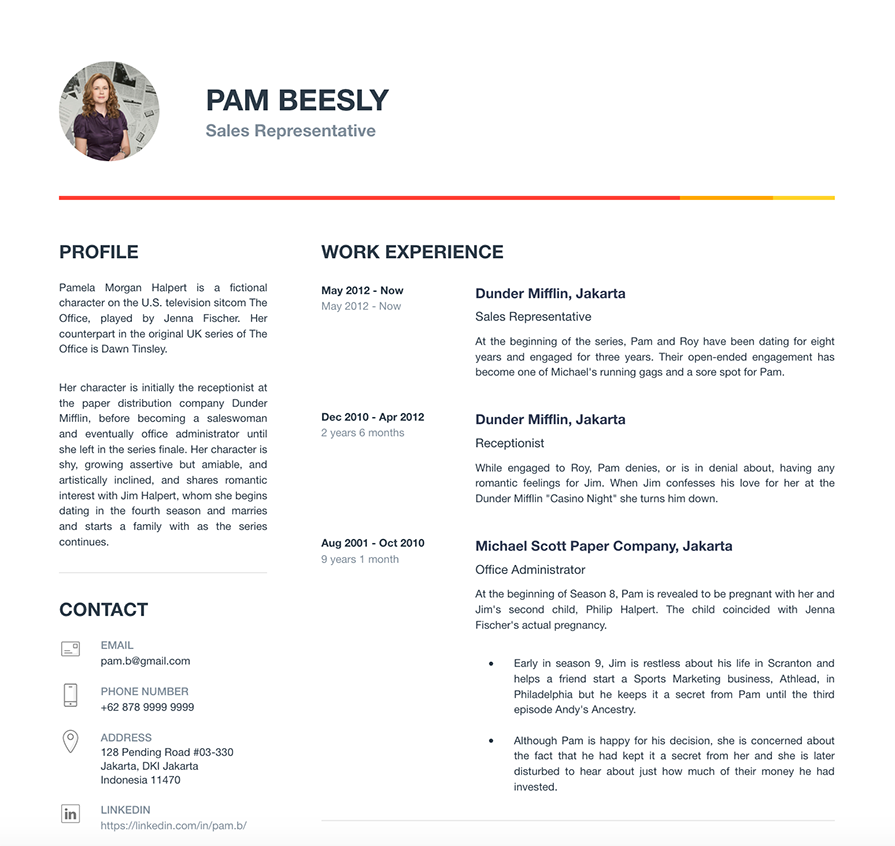
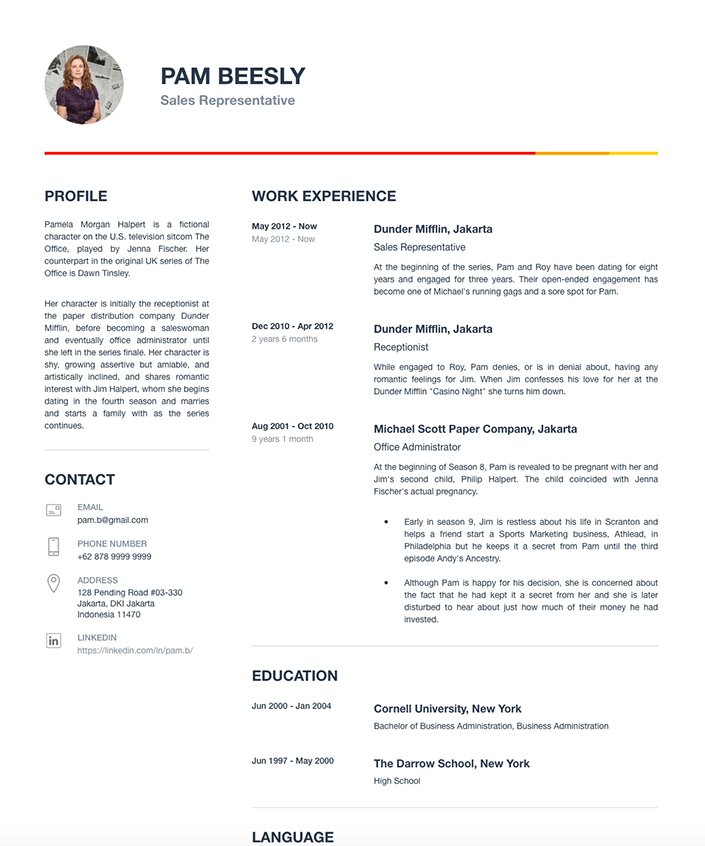
made more ordering changes

diff --git a/templates/home.html b/templates/home.html
@@ -107,11 +107,12 @@
                 </div>
 
                 <div class="home-image-right">
-                    <img src="{% static 'images/iphone-app-470.png' %}">
+                    <img src="{% static 'images/resume-846.png' %}">
                 </div>
             </div>
 
-        </div> <!-- end home-content -->
+        </div>
+       <!--
         <ul class="home-social-list">
             <li>
                 <a href="#"><i class="fa fa-facebook-square"></i></a>
@@ -120,7 +121,6 @@
                 <a href="#"><i class="fa fa-instagram"></i></a>
             </li>
         </ul>
-        <!-- end home-social-list -->
 
         <div class="home-scrolldown">
             <a href="#about" class="scroll-icon smoothscroll">
@@ -128,7 +128,8 @@
                 <i class="icon-arrow-right" aria-hidden="true"></i>
             </a>
         </div>
-    </section> <!-- end home -->
+       -->
+    </section>
 
 
     <!-- about
@@ -257,8 +258,9 @@
                 <p>We don't want your business for long. Choose a subscription plan that's right for you.
                 </p>
                 <p>&nbsp</p> <!-- Ugly, figure this out later -->
-                <p>We accept all major payment methods and process payments with MidTrans SSL Secure / 256-bit SSL secure checkout.
+                <p>We accept all major payment methods and process payments with Midtrans SSL Secure / 256-bit SSL secure checkout.
                 </p>
+                <p><img src="{% static 'images/go-pay-logo.png' %}" class="payment-logo"></p>
             </div>
 
             <div class="col-eight pricing-table">
@@ -283,7 +285,7 @@
                                     <li><span>One Time</span> Payment</li>
                                 </ul>
 
-                                <a class="button button-primary large" href="">Get Started</a>
+                                <a class="button button-primary large" href="{% url 'register' %}">Get Started</a>
                             </div>
 
                         </div>
@@ -308,7 +310,7 @@
                                     <li><span>One Time</span> Payment</li>
                                 </ul>
 
-                                <a class="button button-primary large" href="">Get Started</a>
+                                <a class="button button-primary large" href="{% url 'register' %}">Get Started</a>
                             </div>
 
                         </div>
@@ -338,9 +340,8 @@
                 <div class="slides owl-carousel">
                     <div>
                         <p>
-                        Your work is going to fill a large part of your life, and the only way to be truly satisfied is
-                        to do what you believe is great work. And the only way to do great work is to love what you do.
-                        If you haven't found it yet, keep looking. Don't settle. As with all matters of the heart, you'll know when you find it.
+                            Aim for the stars and sell yourself with facts and numbers.
+                            Be professional at all times. And most importantly, never be late for an appointment.
                         </p>
 
                         <div class="testimonial-author">

diff --git a/assets/css/main.css b/assets/css/main.css
@@ -1532,7 +1532,7 @@ h1.intro-header::before {
   display: block;
   position: absolute;
   right: 0px;
-  top: 50%;	margin: 0px;
+  top: 35%;	margin: 0px;
   -webkit-transform: translateY(-50%);
   -ms-transform: translateY(-50%);
   transform: translateY(-50%);
@@ -1544,9 +1544,6 @@ h1.intro-header::before {
 
 .home-image-right img {
   vertical-align: bottom;
-  width: 70%;
-  max-height: 846px;
-  max-width: 470px;
 }
 
 
@@ -1734,7 +1731,7 @@ html[data-useragent*='MSIE 10.0'] .home-scrolldown,
   }
   .home-image-right img {
 	vertical-align: top;
-	width: 70%;
+	width: 90%;
   }
 }
 
@@ -1792,7 +1789,7 @@ html[data-useragent*='MSIE 10.0'] .home-scrolldown,
 	right: auto;
 	top: auto;
 	left: 50%;
-	bottom: 0;
+	bottom: 175px;
 	-webkit-transform: translateX(-50%);
 	-ms-transform: translateX(-50%);
 	transform: translateX(-50%);
@@ -2225,6 +2222,12 @@ html[data-useragent*='MSIE 10.0'] .home-scrolldown,
 
 .pricing-table .plan-bottom-part {
   margin-top: 3rem;
+}
+
+.payment-logo {
+  width: 50%;
+  height: auto;
+  padding-top: 25px;
 }
 
 

diff --git a/resumes/templates/resumes/work_experience.html b/resumes/templates/resumes/work_experience.html
@@ -55,7 +55,7 @@
 {% block script %}
     <script type="text/javascript">
         $(function() {
-            $('.form-duplicate').formset({ prefix: 'work_experience' });
+            $('.form-duplicate').formset({ prefix: 'work_experience' })
         })
     </script>
 {% endblock %}

diff --git a/resumes/models.py b/resumes/models.py
@@ -30,6 +30,7 @@ class WorkExperience(models.Model):
 
     class Meta:
         verbose_name_plural = "Work Experience"
+        ordering = ['-end_date', ]
 
 
 class Certification(models.Model):
@@ -40,6 +41,9 @@ class Certification(models.Model):
 
     def __str__(self):
         return self.name
+
+    class Meta:
+        ordering = ['-date_obtained', ]
 
 
 class Education(models.Model):
@@ -57,6 +61,7 @@ class Education(models.Model):
 
     class Meta:
         verbose_name_plural = "Education"
+        ordering = ['-end_date', ]
 
 
 class Skill(models.Model):

diff --git a/resumes/views.py b/resumes/views.py
@@ -53,7 +53,7 @@ def choose(request, pk):
 @login_required()
 def my_resumes(request):
     user = request.user
-    resumes = Resume.objects.filter(user=user)
+    resumes = Resume.objects.filter(user=user).order_by('-created_at')
     return render(request, 'resumes/my_resumes.html', {'resumes': resumes})
 
 
